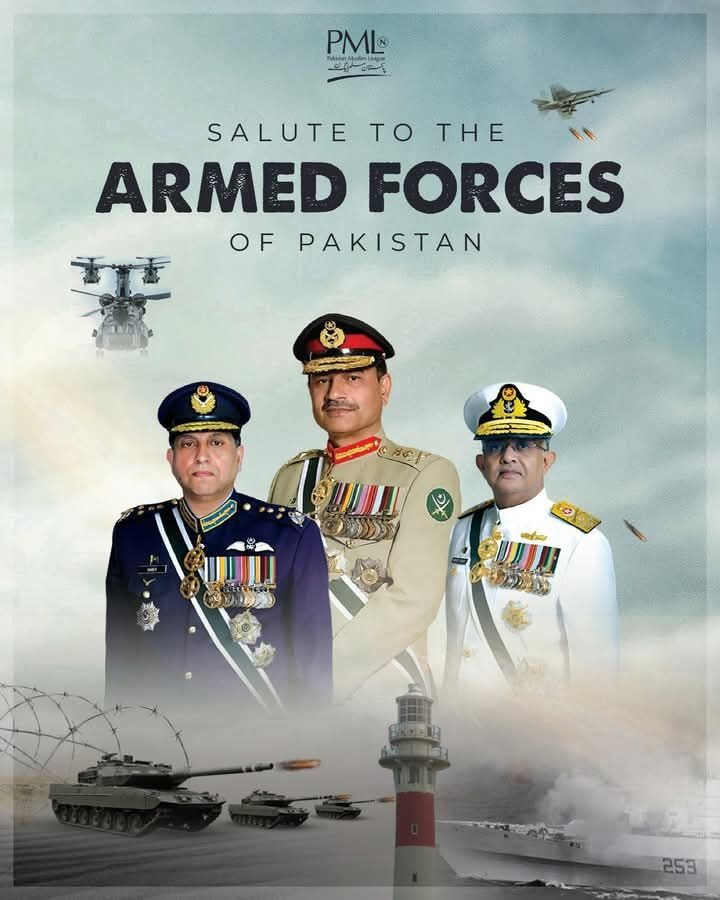
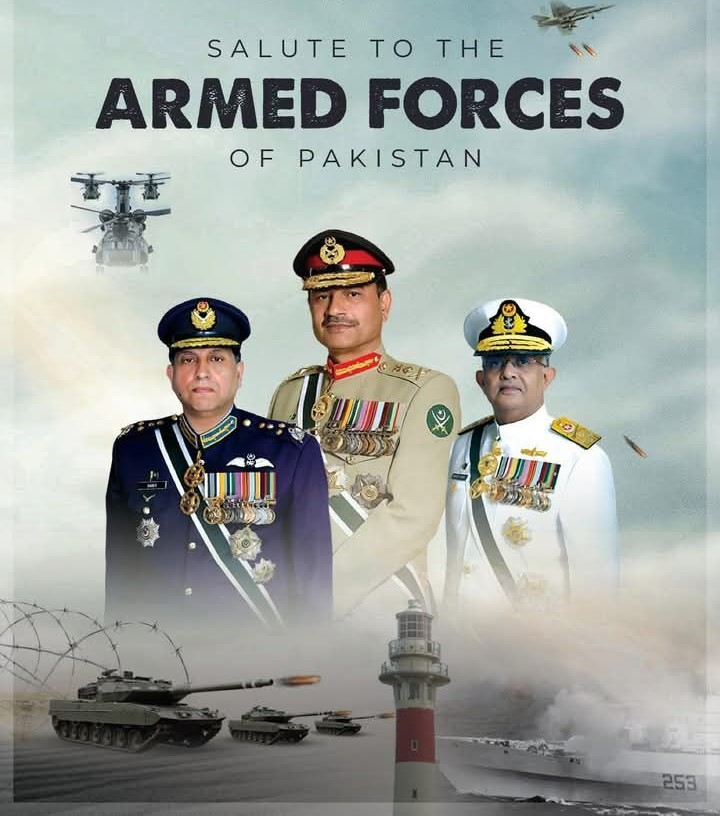
Update ISSB test images to avoid repetition

diff --git a/app/issb/psychologist/page.tsx b/app/issb/psychologist/page.tsx
@@ -30,12 +30,12 @@ export default function PsychologistHubPage() {
         <div className="grid grid-cols-1 sm:grid-cols-2 md:grid-cols-3 lg:grid-cols-4 gap-6">
           {[
             { title: "Word Association Test (WAT)", category: "Psychology Test", desc: "Attempt all 15 official tests (1,500 words) in official testing center projector format with standard 10s slide intervals and air horn sound.", icon: Brain, isReady: true, href: "/issb/wat", bg: "bg-emerald-50/60 border-emerald-200/80 hover:border-emerald-500", tag: "bg-emerald-100 text-emerald-800", iconStyle: "bg-emerald-100 text-emerald-700 group-hover:bg-emerald-600", image: "/images/wat-ai.jpg" },
-            { title: "Sentence Completion Test (Urdu)", category: "Psychology Test", desc: "Attempt 4 complete sets (104 Urdu incomplete sentences, 26 per test) in timed projector mode with 2.8s audio hooter.", icon: Brain, isReady: true, href: "/issb/sct-urdu", bg: "bg-amber-50/60 border-amber-200/80 hover:border-amber-500", tag: "bg-amber-100 text-amber-900", iconStyle: "bg-amber-100 text-amber-700 group-hover:bg-amber-600", image: "/images/sct-ai.jpg" },
+            { title: "Sentence Completion Test (Urdu)", category: "Psychology Test", desc: "Attempt 4 complete sets (104 Urdu incomplete sentences, 26 per test) in timed projector mode with 2.8s audio hooter.", icon: Brain, isReady: true, href: "/issb/sct-urdu", bg: "bg-amber-50/60 border-amber-200/80 hover:border-amber-500", tag: "bg-amber-100 text-amber-900", iconStyle: "bg-amber-100 text-amber-700 group-hover:bg-amber-600", image: "/images/online-quiz.jpg" },
             { title: "Sentence Completion Test (Eng)", category: "Psychology Test", desc: "Attempt 4 complete sets (104 English sentence starters, 26 per test) in official timed format with 2.8s air horn.", icon: Brain, isReady: true, href: "/issb/sct-eng", bg: "bg-sky-50/60 border-sky-200/80 hover:border-sky-500", tag: "bg-sky-100 text-sky-800", iconStyle: "bg-sky-100 text-sky-700 group-hover:bg-sky-600", image: "/images/sct-ai.jpg" },
             { title: "Situation Reaction Test (SRT)", category: "Psychology Test", desc: "Complete official repository of solved situations, 55+ practice dilemmas from past experiences, and female candidate guidelines.", icon: Target, isReady: true, href: "/issb/srt", bg: "bg-rose-50/60 border-rose-200/80 hover:border-rose-500", tag: "bg-rose-100 text-rose-800", iconStyle: "bg-rose-100 text-rose-700 group-hover:bg-rose-600", image: "/images/srt-ai.jpg" },
             { title: "Picture Story Writing (TAT)", category: "Psychology Test", desc: "Thematic Apperception Test picture prompts for developing constructive hero-oriented action narratives with official 4-part structure.", icon: BookOpen, isReady: true, href: "/issb/tat", bg: "bg-purple-50/60 border-purple-200/80 hover:border-purple-500", tag: "bg-purple-100 text-purple-800", iconStyle: "bg-purple-100 text-purple-700 group-hover:bg-purple-600", image: "/images/tat/scene-1.jpg" },
-            { title: "Pointer Story & Merit/Demerit", category: "Psychology Test", desc: "Merit-Demerit self-appraisal rules without self-sabotage, and open-ended scenario writing from official stimulus pointer prompts.", icon: BookOpen, isReady: true, href: "/issb/pointer-story", bg: "bg-teal-50/60 border-teal-200/80 hover:border-teal-500", tag: "bg-teal-100 text-teal-800", iconStyle: "bg-teal-100 text-teal-700 group-hover:bg-teal-600", image: "/images/wat-ai.jpg" },
-            { title: "Self-Description (SD) & Peer Rating", category: "Psychology Test", desc: "Comprehensive verified templates for parent, teacher, friend, rival, and personal self-evaluation drafts with zero contradiction.", icon: UserCheck, isReady: true, href: "/issb/sd", bg: "bg-indigo-50/60 border-indigo-200/80 hover:border-indigo-500", tag: "bg-indigo-100 text-indigo-800", iconStyle: "bg-indigo-100 text-indigo-700 group-hover:bg-indigo-600", image: "/images/sct-ai.jpg" }
+            { title: "Pointer Story & Merit/Demerit", category: "Psychology Test", desc: "Merit-Demerit self-appraisal rules without self-sabotage, and open-ended scenario writing from official stimulus pointer prompts.", icon: BookOpen, isReady: true, href: "/issb/pointer-story", bg: "bg-teal-50/60 border-teal-200/80 hover:border-teal-500", tag: "bg-teal-100 text-teal-800", iconStyle: "bg-teal-100 text-teal-700 group-hover:bg-teal-600", image: "/images/pointer-ai.jpg" },
+            { title: "Self-Description (SD) & Peer Rating", category: "Psychology Test", desc: "Comprehensive verified templates for parent, teacher, friend, rival, and personal self-evaluation drafts with zero contradiction.", icon: UserCheck, isReady: true, href: "/issb/sd", bg: "bg-indigo-50/60 border-indigo-200/80 hover:border-indigo-500", tag: "bg-indigo-100 text-indigo-800", iconStyle: "bg-indigo-100 text-indigo-700 group-hover:bg-indigo-600", image: "/images/issb-psychology.jpg" }
           ].map((item, idx) => {
             const Icon = item.icon;
             return (

diff --git a/app/issb/deputy/page.tsx b/app/issb/deputy/page.tsx
@@ -29,8 +29,8 @@ export default function DeputyHubPage() {
         {/* Grid */}
         <div className="grid grid-cols-1 sm:grid-cols-2 md:grid-cols-3 lg:grid-cols-4 gap-6">
           {[
-            { title: "Personal Information Form (PIF)", category: "DP Assessment", desc: "Flawless bio-data sheet preparation to ensure absolute zero contradictions with Psychologist and GTO observation records.", icon: UserCheck, isReady: true, href: "/issb/pif", bg: "bg-emerald-50/60 border-emerald-200/80 hover:border-emerald-500", tag: "bg-emerald-100 text-emerald-800", iconStyle: "bg-emerald-100 text-emerald-700 group-hover:bg-emerald-600", image: "/images/sct-ai.jpg" },
-            { title: "Deputy President (DP) Interview", category: "DP Assessment", desc: "Real interactive question banks on family bio-data, defense technology, border lengths, current affairs, and stress handling.", icon: Award, isReady: true, href: "/issb/dp-interview", bg: "bg-indigo-50/60 border-indigo-200/80 hover:border-indigo-500", tag: "bg-indigo-100 text-indigo-800", iconStyle: "bg-indigo-100 text-indigo-700 group-hover:bg-indigo-600", image: "/images/dp-ai.jpg" }
+            { title: "Personal Information Form (PIF)", category: "DP Assessment", desc: "Flawless bio-data sheet preparation to ensure absolute zero contradictions with Psychologist and GTO observation records.", icon: UserCheck, isReady: true, href: "/issb/pif", bg: "bg-emerald-50/60 border-emerald-200/80 hover:border-emerald-500", tag: "bg-emerald-100 text-emerald-800", iconStyle: "bg-emerald-100 text-emerald-700 group-hover:bg-emerald-600", image: "/images/public-service-header.jpg" },
+            { title: "Deputy President (DP) Interview", category: "DP Assessment", desc: "Real interactive question banks on family bio-data, defense technology, border lengths, current affairs, and stress handling.", icon: Award, isReady: true, href: "/issb/dp-interview", bg: "bg-indigo-50/60 border-indigo-200/80 hover:border-indigo-500", tag: "bg-indigo-100 text-indigo-800", iconStyle: "bg-indigo-100 text-indigo-700 group-hover:bg-indigo-600", image: "/images/dp-pak-ai.jpg" }
           ].map((item, idx) => {
             const Icon = item.icon;
             return (
